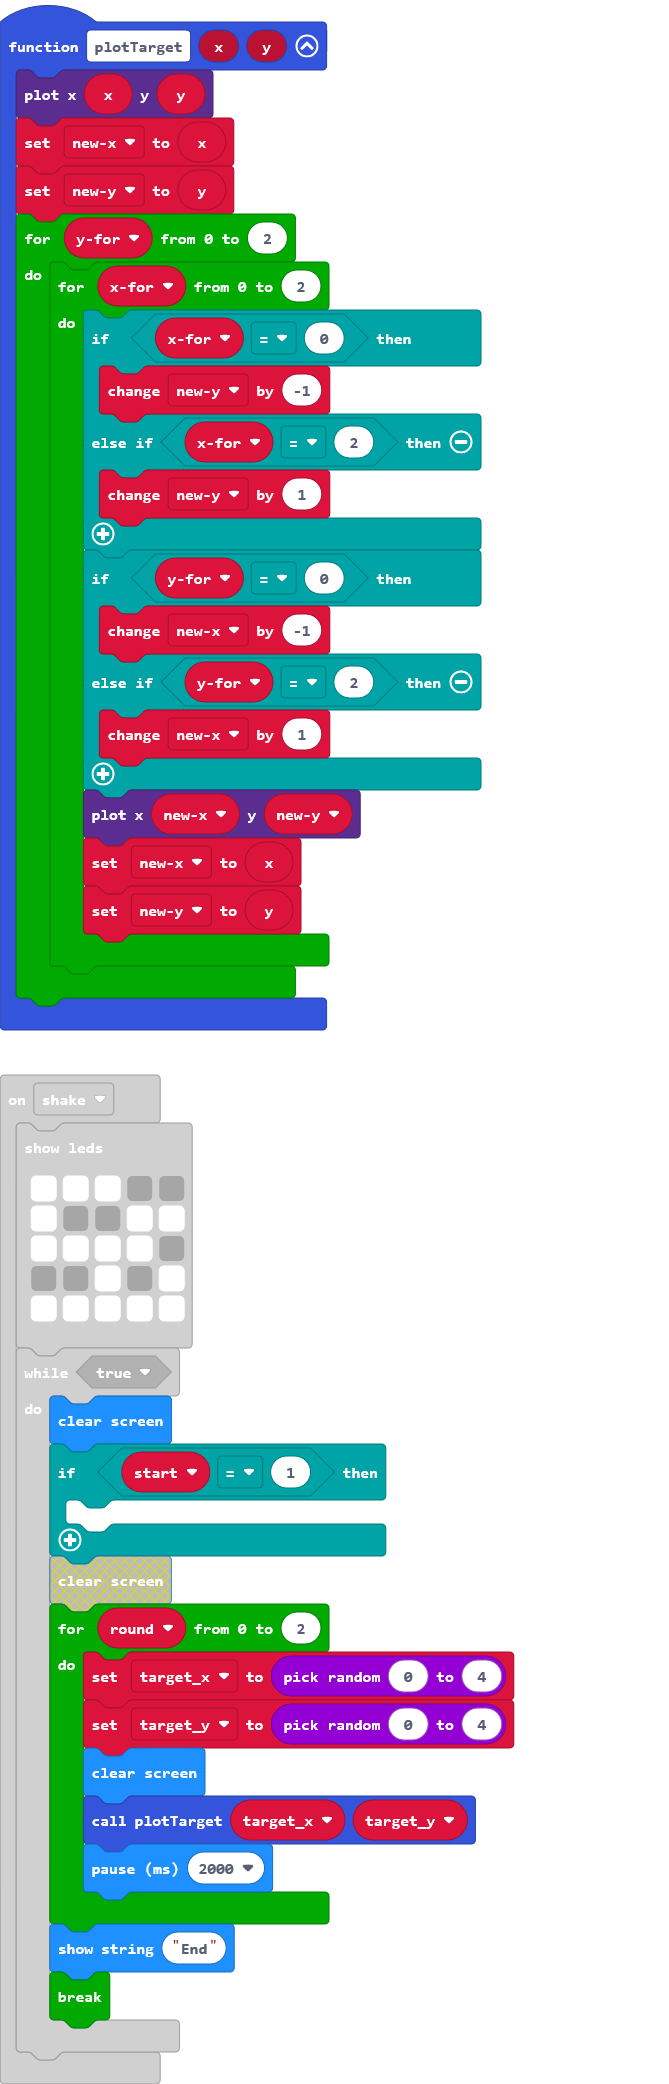
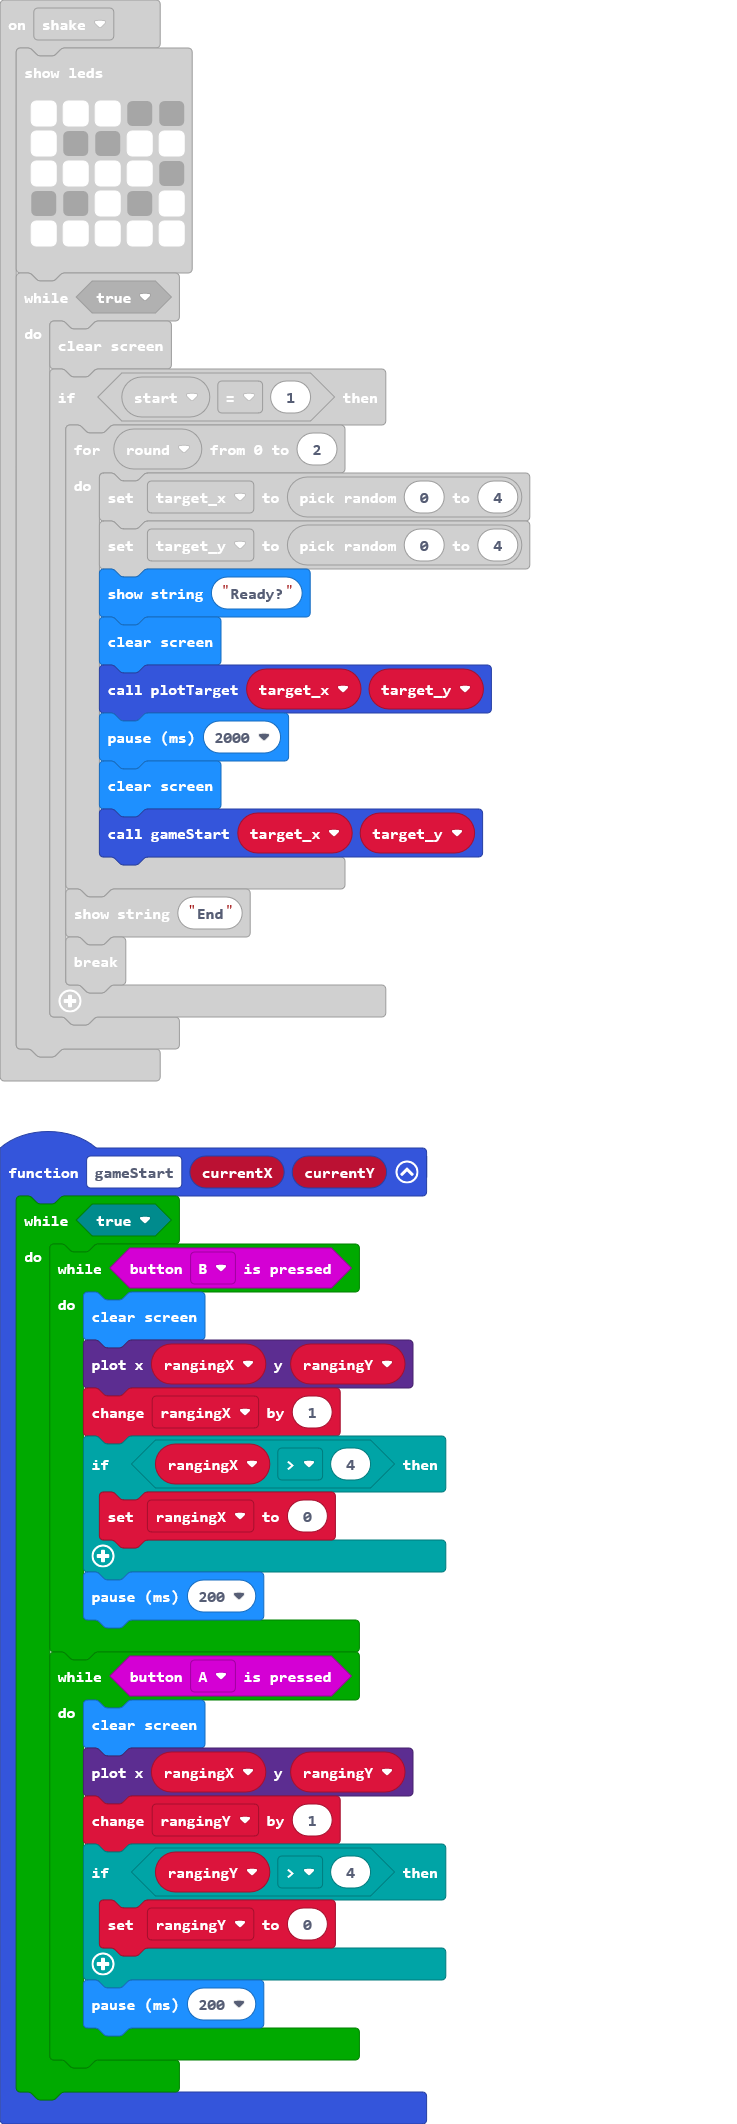
Update main.blocks, main.ts

diff --git a/main.ts b/main.ts
@@ -3,6 +3,8 @@ let target_x = 0
 let target_y = 0
 let newx = 0
 let newy = 0
+let rangingX = 0
+let rangingY = 0
 input.onButtonPressed(Button.AB, function () {
     start = 1
 })
@@ -20,9 +22,12 @@ input.onGesture(Gesture.Shake, function () {
             for (let round = 0; round <= 2; round++) {
                 target_x = randint(0, 4)
                 target_y = randint(0, 4)
+                basic.showString("Ready?")
                 basic.clearScreen()
                 plotTarget(target_x, target_y)
                 basic.pause(2000)
+                basic.clearScreen()
+                gameStart(target_x, target_y)
             }
             basic.showString("End")
             break;
@@ -48,6 +53,28 @@ function plotTarget (x: number, y: number) {
             led.plot(newx, newy)
             newx = x
             newy = y
+        }
+    }
+}
+function gameStart (currentX: number, currentY: number) {
+    while (true) {
+        while (input.buttonIsPressed(Button.B)) {
+            basic.clearScreen()
+            led.plot(rangingX, rangingY)
+            rangingX += 1
+            if (rangingX > 4) {
+                rangingX = 0
+            }
+            basic.pause(200)
+        }
+        while (input.buttonIsPressed(Button.A)) {
+            basic.clearScreen()
+            led.plot(rangingX, rangingY)
+            rangingY += 1
+            if (rangingY > 4) {
+                rangingY = 0
+            }
+            basic.pause(200)
         }
     }
 }
